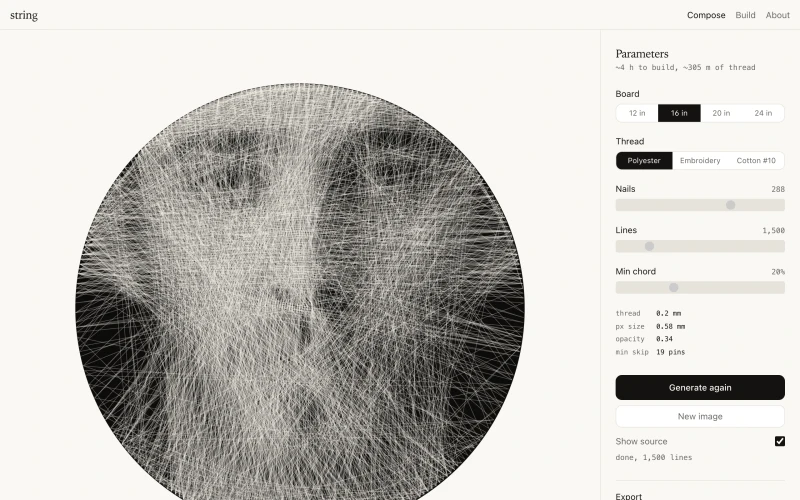
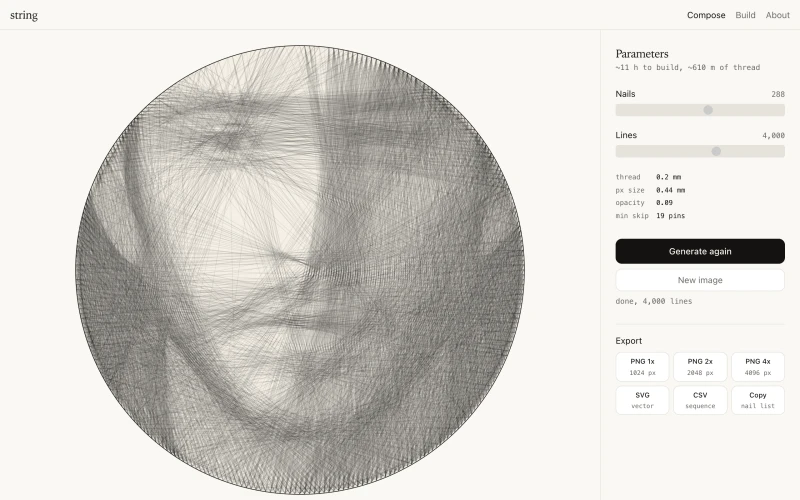
string

diff --git a/blog/string.html b/blog/string.html
@@ -55,7 +55,7 @@
 
             <h2>Residual model</h2>
 
-            <p>The solver maintains a residual field \(R\) over the 700x700 pixel grid. Initially, \(R\) equals the preprocessed luminance image \(I\), where \(R_{xy} \in [0, 1]\) represents brightness still needed at pixel \((x, y)\). The physical model is dark wood canvas plus light thread: each chord adds brightness to the pixels it crosses, reducing the residual.</p>
+            <p>The solver maintains a residual field \(R\) over the 700x700 pixel grid. Initially, \(R\) equals the preprocessed luminance image \(I\), where \(R_{xy} \in [0, 1]\) represents darkness still needed at pixel \((x, y)\). The physical model is cream board plus dark thread: each chord darkens the pixels it crosses, reducing the residual.</p>
 
             <p>When a chord is drawn between pins \(\mathbf{p}_a\) and \(\mathbf{p}_b\), the residual updates as:</p>
 
@@ -135,11 +135,15 @@
 
             <h2>Thread opacity from physical parameters</h2>
 
-            <p>The opacity \(\alpha\) is not a free parameter. It derives from the physical thread and board:</p>
+            <p>The per-crossing opacity \(\alpha\) is not a free parameter. It derives from the physical thread and board in two steps. First, the geometric coverage is the thread's pixel width:</p>
 
-            \[\alpha = \operatorname{clamp}\!\left(\frac{d_{\text{thread}}}{d_{\text{board}} / s}, \; 0.05, \; 0.5\right)\]
+            \[\alpha_{\text{geo}} = \operatorname{clamp}\!\left(\frac{d_{\text{thread}}}{d_{\text{board}} / s}, \; 0.05, \; 0.5\right)\]
 
-            <p>where \(d_{\text{thread}}\) is the thread diameter in mm, \(d_{\text{board}}\) is the board diameter in mm, and \(s = 700\) is the solver resolution. The ratio \(d_{\text{thread}} / (d_{\text{board}} / s)\) is the thread width in pixels. Clamping to \([0.05, 0.5]\) ensures convergence: too-thin threads need too many passes, and too-thick threads oversaturate in few passes. The solver ships material presets (polyester at 0.2 mm, embroidery floss at 0.3 mm, crochet cotton at 0.4 mm) matched to standard board sizes (12" to 24").</p>
+            <p>where \(d_{\text{thread}}\) is thread diameter in mm, \(d_{\text{board}}\) is board diameter in mm, and \(s = 700\) is solver resolution. This is then attenuated by a factor \(\kappa = 0.2\) to model the fact that a single thread crossing is partially transparent:</p>
+
+            \[\alpha = \kappa \cdot \alpha_{\text{geo}}\]
+
+            <p>This puts effective per-crossing opacity in the 0.03-0.05 range, matching empirical values from reference string-art algorithms. At a default budget of 4,000 chords, this allows the solver to build up darkness gradually through many overlapping crossings without saturating too early. The solver ships material presets (polyester at 0.2 mm, embroidery floss at 0.3 mm, crochet cotton at 0.4 mm) matched to standard board sizes (12" to 24").</p>
 
             <h2>Implementation</h2>
 
